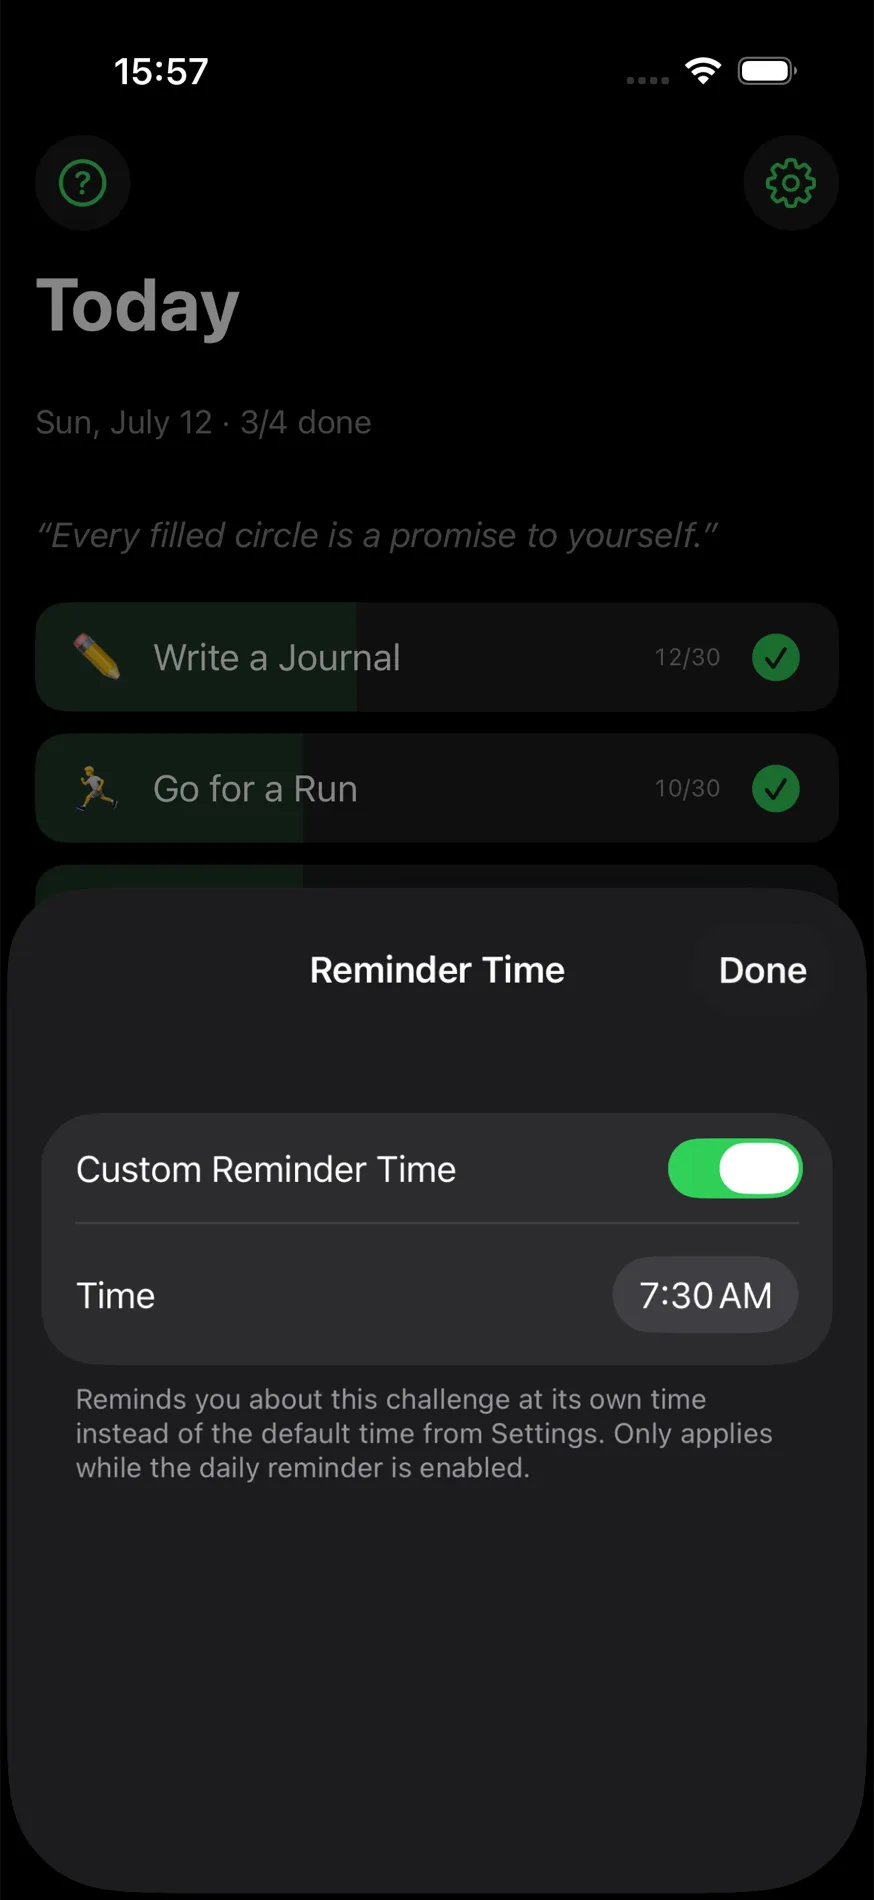
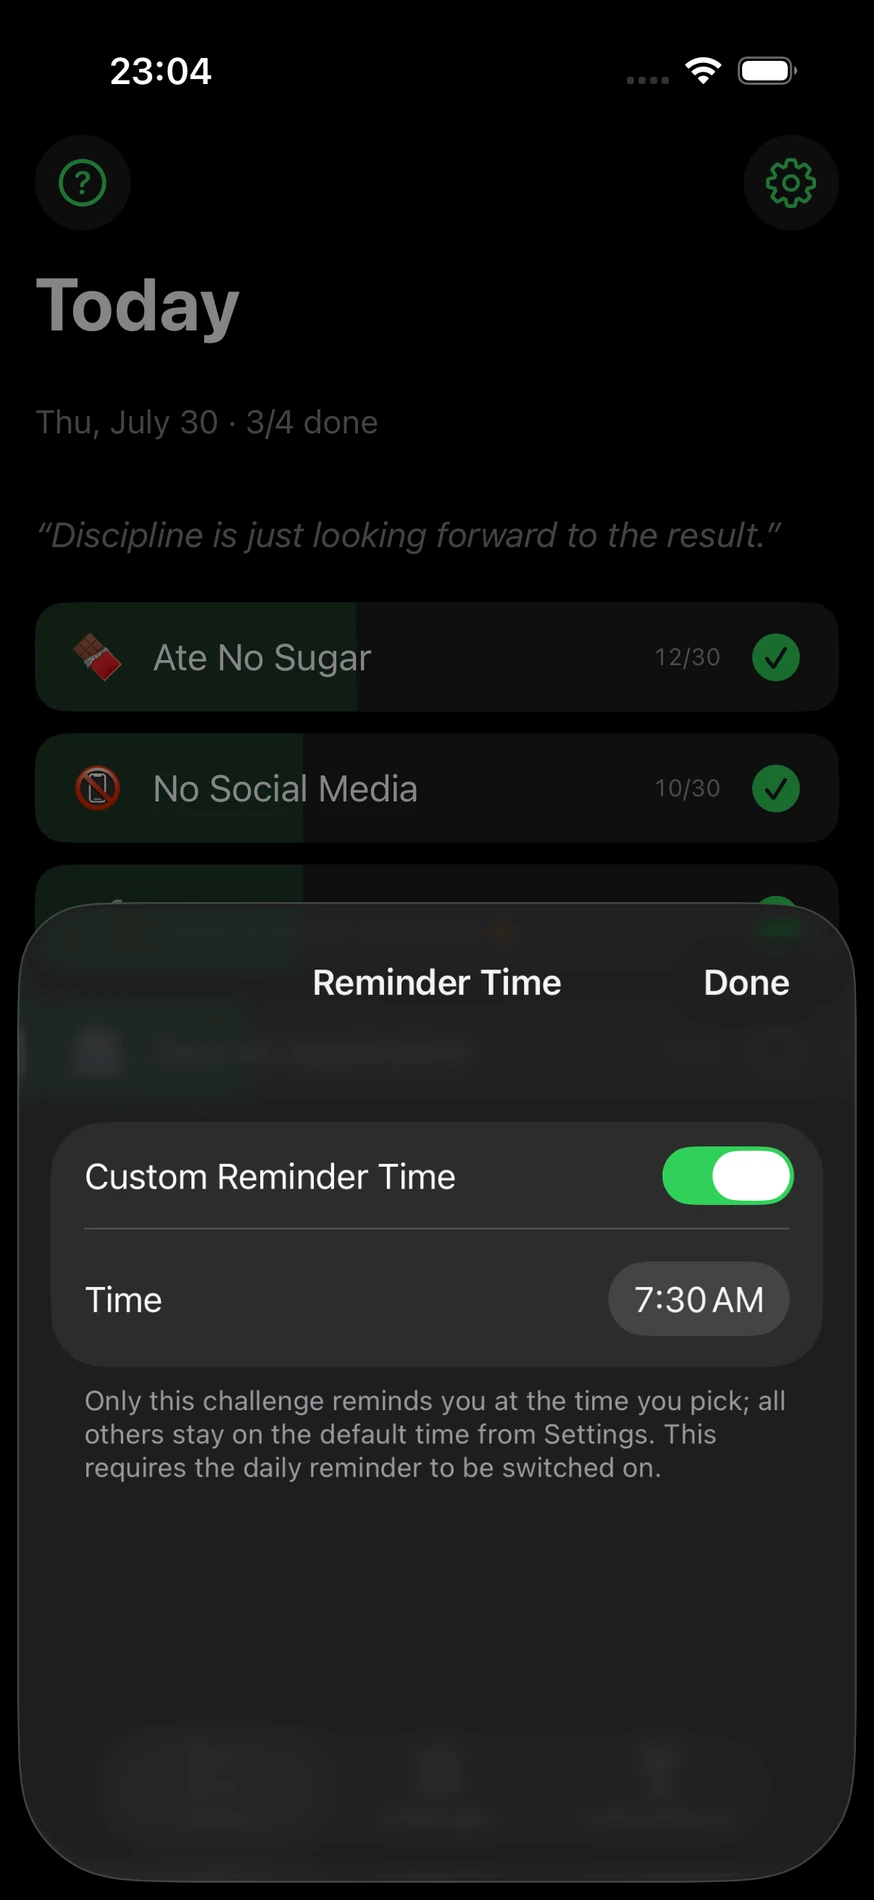
content: App-Screenshots aktualisiert (neue Beispiel-Challenges, zwei neue Motive)
Die Beispiel-Challenges zeigen jetzt Vorhaben mit Enddatum (kein Zucker, kein
Social Media, kalt duschen, eine Bewerbung) statt Dauergewohnheiten wie Joggen
oder Sparen - eine Challenge endet nach 30 Tagen, eine Gewohnheit nicht.

Zwei Bilder zeigen endlich das, was der Text daneben behauptet:
- reminder: Erinnerungszeit-Sheet einer *einzelnen* Challenge statt der
  allgemeinen Mitteilungen-Seite mit mehreren Reglern
- erfolge: Erfolge-Tab mit Fortschrittsring statt des Freischalt-Popups

Aufgenommen auf dem iPhone 17 Pro (402 pt), nicht auf dem Pro Max: Die Bilder
liegen hier auf fester Breite (874 px), und iOS rendert in Punkten - vom Pro Max
(440 pt) wirkt alles rund 9,5 % kleiner. Dazu ein Hinweis im Quelltext, damit
das nicht erneut verwechselt wird; die Pixelmaße taugen dafür nicht, die
Seitenverhältnisse beider Geräte sind praktisch identisch.

diff --git a/en/index.html b/en/index.html
@@ -46,6 +46,19 @@ og_locale: en_US
             </a>
           </div>
         </div>
+        <!--
+          App-Screenshots: 874x1900 px, WebP, Dark Mode.
+
+          Erzeugt im 12c-Repo, NICHT von Hand skalieren:
+            ./screenshots/website/aufnehmen.sh     (Aufnahme, iPhone 17 Pro)
+            ./screenshots/website/uebertragen.sh   (überträgt hierher)
+
+          Wichtig ist das Aufnahmegerät: Die Bilder liegen hier auf fester Breite (874 px),
+          und iOS rendert in Punkten - das iPhone 17 Pro hat 402 pt, das Pro Max 440 pt.
+          Aufnahmen vom Pro Max wirken deshalb rund 9,5 % kleiner, obwohl die Pixelmaße
+          nach dem Skalieren fast identisch sind (Seitenverhältnis 0,4600 gegen 0,46025).
+          Der App Store bekommt umgekehrt die Pro-Max-Aufnahmen (1320x2868, Pflichtformat).
+        -->
         <div class="hero-visual">
           <div class="phone-wrap">
             <div class="phone-frame">

diff --git a/index.html b/index.html
@@ -46,6 +46,19 @@ og_locale: de_DE
             </a>
           </div>
         </div>
+        <!--
+          App-Screenshots: 874x1900 px, WebP, Dark Mode.
+
+          Erzeugt im 12c-Repo, NICHT von Hand skalieren:
+            ./screenshots/website/aufnehmen.sh     (Aufnahme, iPhone 17 Pro)
+            ./screenshots/website/uebertragen.sh   (überträgt hierher)
+
+          Wichtig ist das Aufnahmegerät: Die Bilder liegen hier auf fester Breite (874 px),
+          und iOS rendert in Punkten - das iPhone 17 Pro hat 402 pt, das Pro Max 440 pt.
+          Aufnahmen vom Pro Max wirken deshalb rund 9,5 % kleiner, obwohl die Pixelmaße
+          nach dem Skalieren fast identisch sind (Seitenverhältnis 0,4600 gegen 0,46025).
+          Der App Store bekommt umgekehrt die Pro-Max-Aufnahmen (1320x2868, Pflichtformat).
+        -->
         <div class="hero-visual">
           <div class="phone-wrap">
             <div class="phone-frame">
